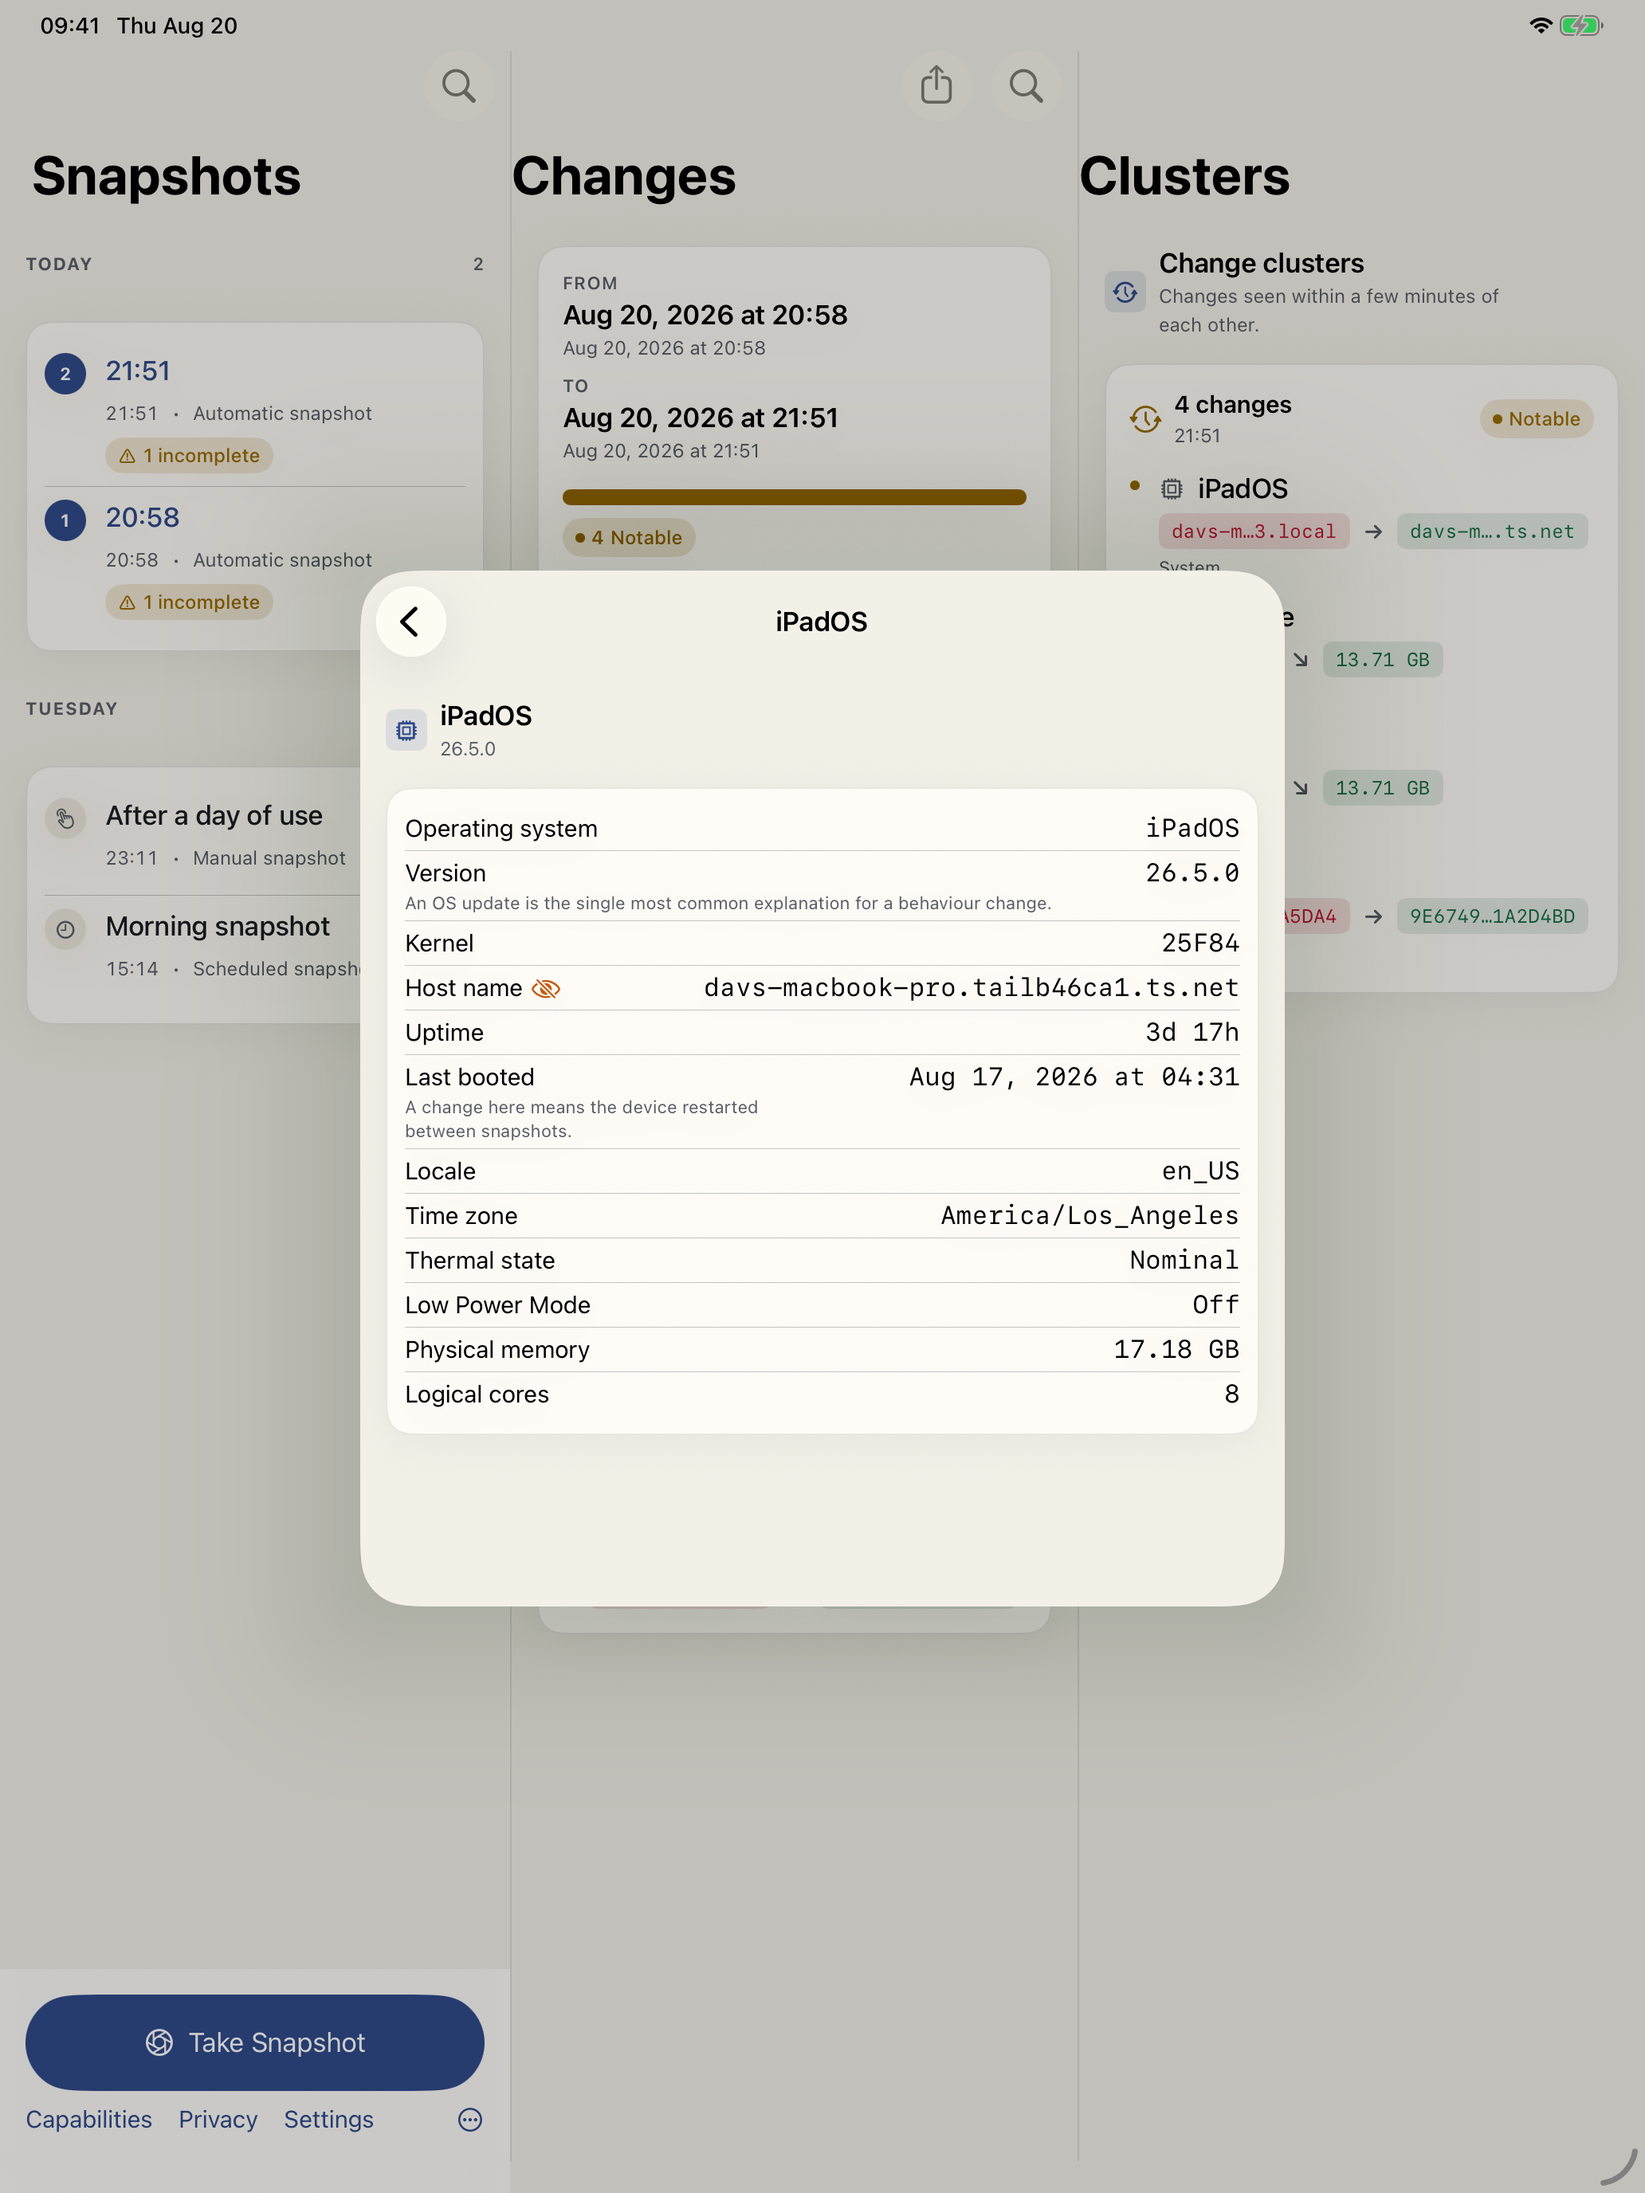
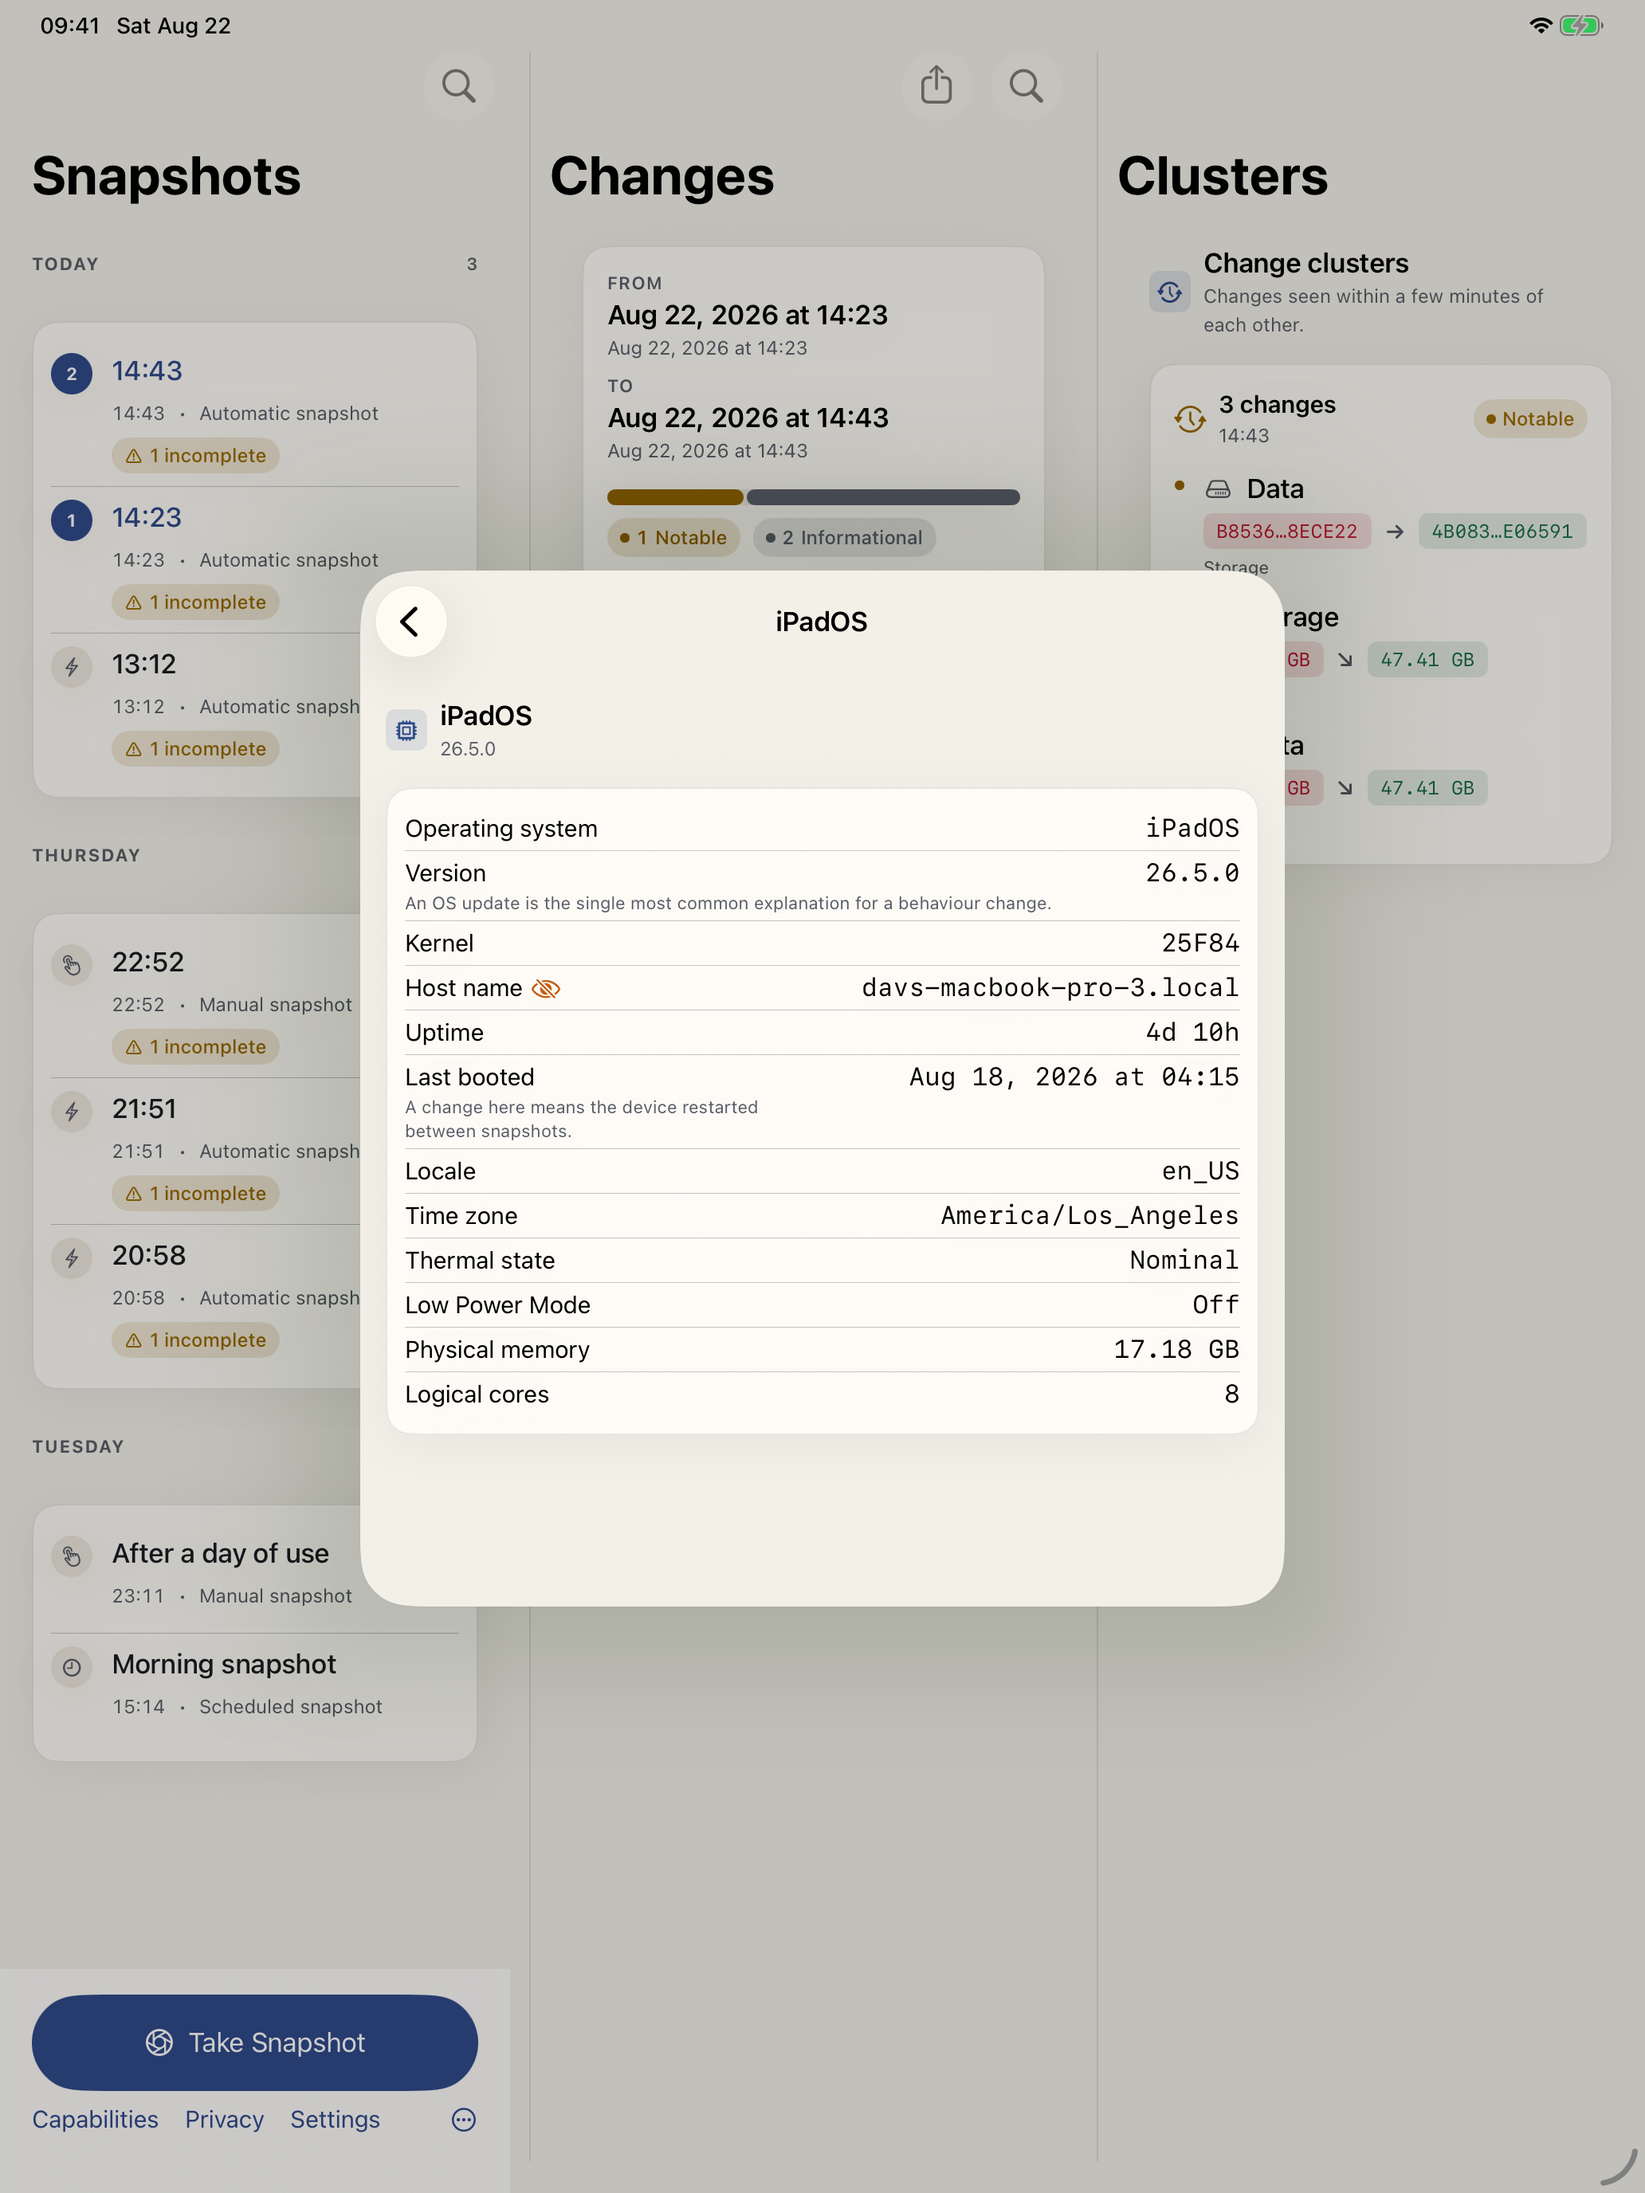
Stop the iPad workspace crowding its headers and overflowing narrow iPads
Two problems in the three-column workspace, one cosmetic and one not.

The columns were butted straight against the dividers in an HStack with no
spacing, so each column's large navigation title began almost on the hairline.
The divider now carries a gutter either side.

Column content used Spacing.regular while SwiftUI insets a large title by about
twenty points, leaving every header roughly four points further in than the rows
beneath it — invisible in isolation, obvious once three columns sit side by
side. Column content now uses an inset that matches the title, and it varies by
size class rather than being hardcoded, because the system inset differs in
compact width. Measured on a 13-inch iPad, the offset between the title and the
first row falls from 5.5pt to 1.5pt, which is the difference in side bearing
between "S" and "T" rather than a layout gap.

The real defect: the layout chose between the workspace and the split view on
horizontal size class alone. Every iPad reports regular in full-screen portrait,
including an iPad mini at 744pt, while the three columns require 840pt before
dividers. The workspace therefore overflowed and clipped — the first column's
title rendered as "shots", cards were cut off at the leading edge, the trailing
column lost its text, and "Settings" wrapped mid-word. The choice now also
considers the width actually available, so a mini in portrait gets the split
view and a 13-inch keeps the workspace. This predates the gutter; the gutter
[…]

diff --git a/Apps/DiffuseiPadOS/Views/IPadRootView.swift b/Apps/DiffuseiPadOS/Views/IPadRootView.swift
@@ -26,12 +26,15 @@ struct IPadRootView: View {
     @State private var reportMarkdown = ""
 
     var body: some View {
-        Group {
-            if sizeClass == .compact {
-                compactSplit
-            } else {
-                threeColumnWorkspace
+        GeometryReader { proxy in
+            Group {
+                if sizeClass == .compact || proxy.size.width < Self.workspaceMinimumWidth {
+                    compactSplit
+                } else {
+                    threeColumnWorkspace
+                }
             }
+            .frame(width: proxy.size.width, height: proxy.size.height)
         }
         .tint(DiffuseTheme.Palette.accent)
         .diffuseCanvas()
@@ -106,21 +109,45 @@ struct IPadRootView: View {
         .navigationSplitViewStyle(.balanced)
     }
 
+    /// The narrowest width the three-column workspace can occupy without
+    /// clipping: the columns' own minimums plus both dividers and their gutters.
+    ///
+    /// A regular horizontal size class is not enough on its own. Every iPad
+    /// reports regular in full-screen portrait, including an iPad mini at 744pt,
+    /// which is narrower than the columns require — the workspace then overflowed
+    /// and clipped the first column's title and the last column's text. Below
+    /// this width the system split view is the correct layout.
+    private static let workspaceMinimumWidth: CGFloat = 890
+
     private var threeColumnWorkspace: some View {
         HStack(spacing: 0) {
             NavigationStack { snapshotColumn }
                 .frame(minWidth: 240, idealWidth: 280, maxWidth: 320)
-            Rectangle()
-                .fill(DiffuseTheme.Palette.hairline)
-                .frame(width: 1)
+            columnDivider
             NavigationStack { changeColumn }
                 .frame(minWidth: 320)
-            Rectangle()
-                .fill(DiffuseTheme.Palette.hairline)
-                .frame(width: 1)
+            columnDivider
             NavigationStack { detailColumn }
                 .frame(minWidth: 280)
         }
+    }
+
+    /// A hairline with a gutter either side. Butted straight against a column,
+    /// the next column's large title starts almost on the rule, which reads as a
+    /// crowded header rather than a boundary between columns.
+    private var columnDivider: some View {
+        Rectangle()
+            .fill(DiffuseTheme.Palette.hairline)
+            .frame(width: 1)
+            .padding(.horizontal, DiffuseTheme.Spacing.medium)
+    }
+
+    /// Horizontal inset for column content, chosen to match the leading inset
+    /// SwiftUI gives a large navigation title at the same size class. With plain
+    /// `Spacing.regular` the title sits about four points further in than the
+    /// rows beneath it, which is visible once columns sit side by side.
+    private var columnInset: CGFloat {
+        sizeClass == .compact ? DiffuseTheme.Spacing.regular : 20
     }
 
     // MARK: - Column one: snapshots
@@ -176,7 +203,8 @@ struct IPadRootView: View {
                     }
                 }
             }
-            .padding(DiffuseTheme.Spacing.regular)
+            .padding(.vertical, DiffuseTheme.Spacing.regular)
+            .padding(.horizontal, columnInset)
         }
         .diffuseCanvas()
         .navigationTitle("Snapshots")
@@ -248,7 +276,8 @@ struct IPadRootView: View {
                 }
                 .font(.subheadline)
             }
-            .padding(DiffuseTheme.Spacing.regular)
+            .padding(.vertical, DiffuseTheme.Spacing.regular)
+            .padding(.horizontal, columnInset)
             .background(.bar)
         }
         .sheet(item: $inspectedID) { id in
@@ -304,7 +333,8 @@ struct IPadRootView: View {
                             }
                         }
                     }
-                    .padding(DiffuseTheme.Spacing.regular)
+                    .padding(.vertical, DiffuseTheme.Spacing.regular)
+                    .padding(.horizontal, columnInset)
                 }
             } else {
                 EmptyStateView(
@@ -371,7 +401,8 @@ struct IPadRootView: View {
                         ChangeClusterCard(cluster: cluster, changes: comparison.changes(in: cluster))
                     }
                 }
-                .padding(DiffuseTheme.Spacing.regular)
+                .padding(.vertical, DiffuseTheme.Spacing.regular)
+                .padding(.horizontal, columnInset)
             }
             .diffuseCanvas()
             .navigationTitle("Clusters")

diff --git a/docs/screenshots/README.md b/docs/screenshots/README.md
@@ -1,6 +1,6 @@
 # Screenshots
 
-Taken from the running native apps on **20 Aug 2026**. Replace these PNGs from the live apps when UI changes. Do not invent marketing images. Skill: `screenshots`. App icons are a different pipeline: [Design/Icons/README.md](../../Design/Icons/README.md).
+Taken from the running native apps on **20 Aug 2026**; the iPad set was retaken on **22 Aug 2026** after the workspace column alignment fix. Replace these PNGs from the live apps when UI changes. Do not invent marketing images. Skill: `screenshots`. App icons are a different pipeline: [Design/Icons/README.md](../../Design/Icons/README.md).
 
 The iPhone shots are full-device framebuffers (1206×2622). A missing launch screen previously letterboxed the UI to a 320×480 compatibility size; that is fixed.
 

diff --git a/README.md b/README.md
@@ -234,7 +234,7 @@ flowchart TB
 
 ## Screenshots
 
-Captured from the live apps on **20 Aug 2026** — simulators, the macOS debug build, and a Pixel 6 Android 14 emulator. These are not mockups. Browse every PNG in [docs/screenshots](docs/screenshots/) — that directory is the complete, versioned gallery for all five apps.
+Captured from the live apps on **20 Aug 2026**, with the iPad set retaken on **22 Aug 2026** — simulators, the macOS debug build, and a Pixel 6 Android 14 emulator. These are not mockups. Browse every PNG in [docs/screenshots](docs/screenshots/) — that directory is the complete, versioned gallery for all five apps.
 
 ### Android
 
